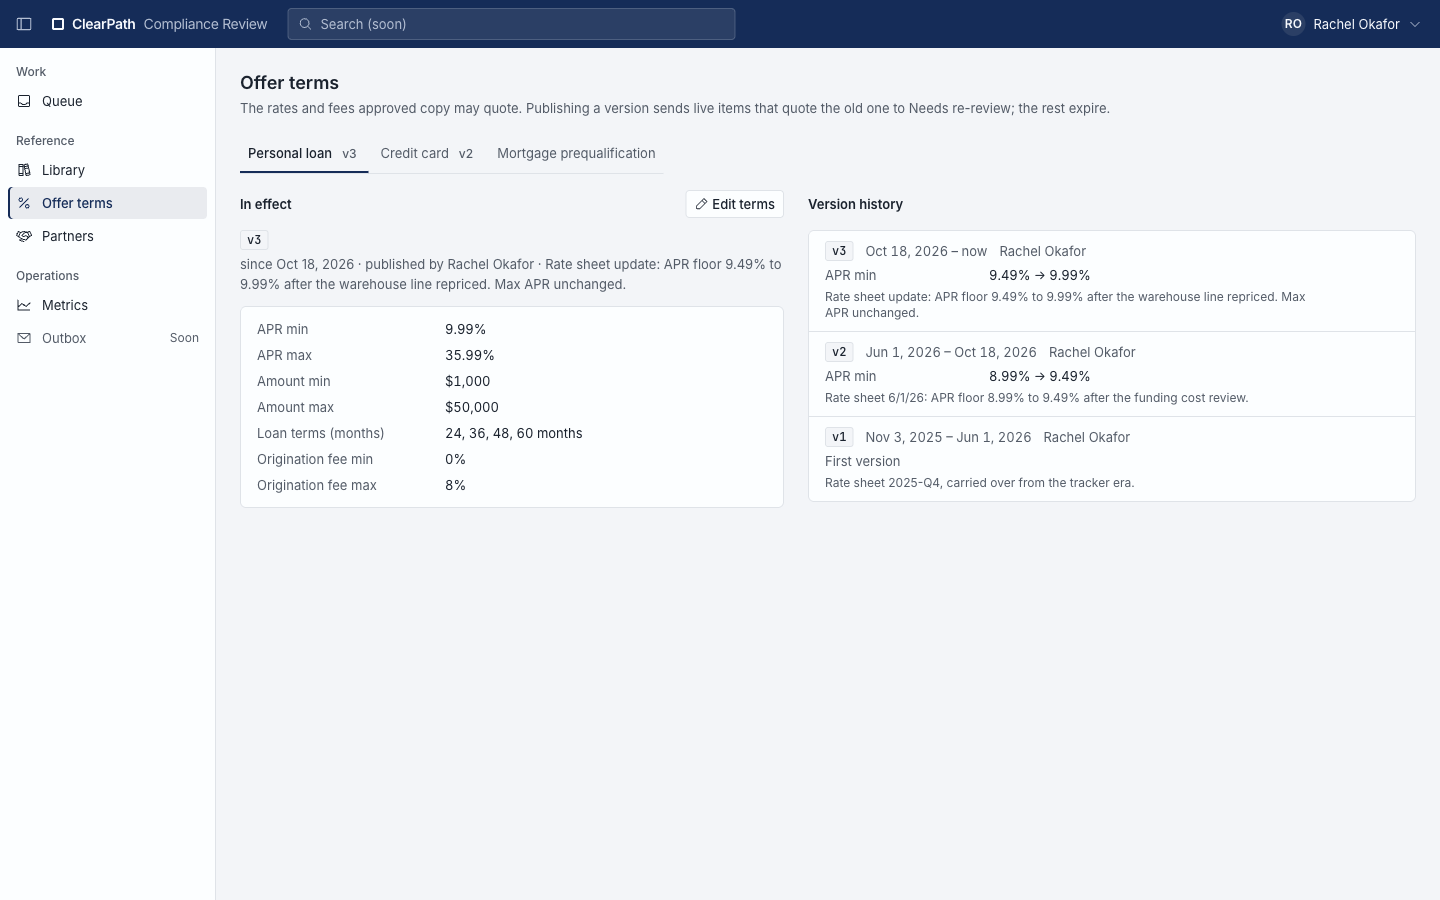
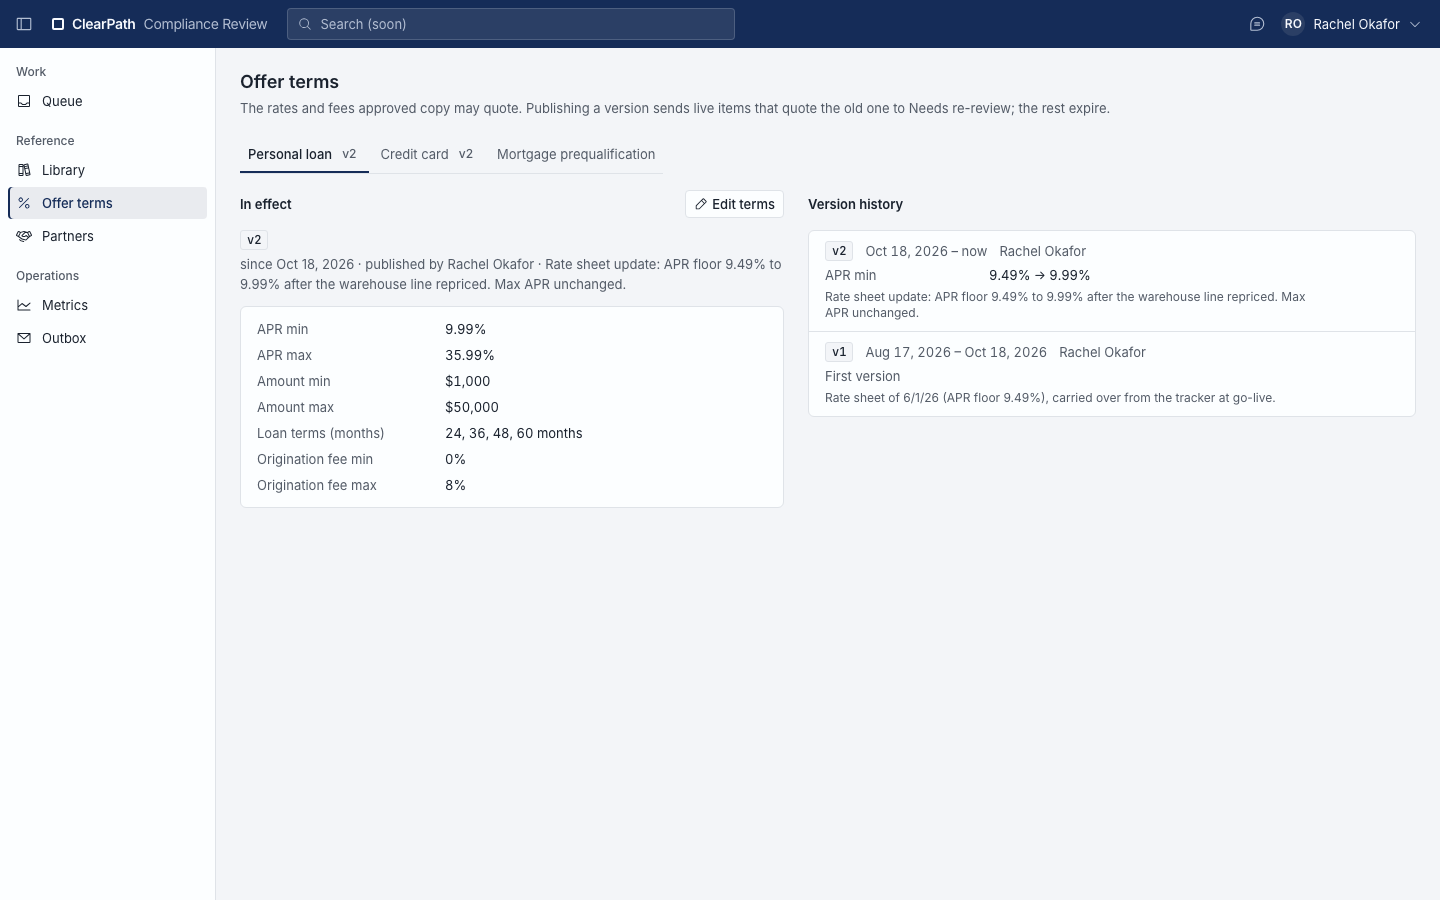
Demo: retake screenshots after the re-anchor and #40; report states the new tracker totals
The seed raises no drift attention alert either (pinned beside the no-email test). New shot:
reviewer-drift-cp7-restored, the guide path run live (Restore original page, Check now, Reaffirm).

diff --git a/backend/demo/tests/test_seed.py b/backend/demo/tests/test_seed.py
@@ -152,8 +152,10 @@ def test_native_history_starts_at_go_live_after_the_tracker_ends(seeded: Seeded)
 
 
 def test_the_seed_sends_no_email(seeded: Seeded) -> None:
-    """Notifications (assignment, decisions, mentions, drift attention) are in-app; any email would land here."""
+    """Notifications (assignment, decisions, mentions, drift attention) are in-app; any email would land here. No
+    seeded check raises a drift attention alert (#40) either: every seeded check is unchanged or modified."""
     assert not OutboxEmail.objects.exists()
+    assert not Event.objects.filter(type=EventType.PAGE_FINDINGS_FLAGGED.value).exists()
 
 
 def test_a_failing_reset_changes_nothing(seeded: Seeded) -> None:

diff --git a/docs/plan/reports/demo-seed.md b/docs/plan/reports/demo-seed.md
@@ -5,8 +5,8 @@ Issue #13. Plan: `docs/plan/demo-seed.md`. Walkthrough for evaluators: `docs/dem
 ## What was built
 
 - **`backend/demo/` app.**
-  - `content/` is the catalog. It has 11 people, 10 partners with agreements, offer terms (personal loan v1→v3,
-    card v1→v2) and 44 item stories. Each story is copy versions plus timed steps.
+  - `content/` is the catalog. It has 11 people, 10 partners with agreements, offer terms (personal loan v1→v2,
+    card v1→v2, both entered at go-live) and 44 item stories. Each story is copy versions plus timed steps.
   - `story.py` is the step DSL.
   - `runner.py` merges every step into one timeline and plays it through the real service functions, using a
     `FixedClock` set to each step's backdated instant. It drains the outbox in-process after each step and
@@ -35,12 +35,12 @@ Issue #13. Plan: `docs/plan/demo-seed.md`. Walkthrough for evaluators: `docs/dem
 | | |
 |---|---|
 | Native items | 44: submitted 5, in review 9, changes requested 4, approved 14, rejected 3, needs re-review 4 (terms changed 2, approval expired 1, drift 1), expired 3, withdrawn 2 |
-| Legacy items | 178 from `samples/` tracker, imported through `imports.services` the evening before; 33 matched to seeded partners |
+| Legacy items | 178 from the `samples/` tracker (2025-09-02 to 2026-08-14), imported through `imports.services` the evening before; 36 matched to seeded partners |
 | Products / channels | personal loan, card, mortgage prequal; email, SMS, paid social, paid search, display, direct mail, landing page, affiliate page, call script; CA-only and national; prescreen |
 | Rule coverage | every code rule id fires at least once (asserted against `CODE_RULES`), plus ≥10 clean versions |
 | Triage | ≥40 accepted, ≥40 dismissed with reasons, carried-forward dismissals, system dismissals on fast-track |
 | AI | scripted findings on most versions; one item with the AI failed after 4 tries (529), so approval needs an override (CP-40); one pending (CP-222) |
-| History | events backdated over ~10 weeks, ~880 events; 5 fast-track approvals, 1 reaffirm (which found the 2026-07-21 Reg B rule as a new finding) |
+| History | 905 events, all from go-live (2026-08-17) on; 5 fast-track approvals; no seeded reaffirm (the guide's CP-7 path makes one) |
 | Drift | CP-7, CP-23 and CP-32 run on the three partner pages ClearPath hosts (`drift.demo.PAGES`), placed via `drift.demo.seed_placement`; 4 checks recorded through `drift.services` on the pages' own HTML; LendCompare is left edited, so CP-7's re-review comes from a real *modified* check |
 | People | Dana's queue holds 5; Rachel (lead) holds 3; Leah is out of office and her released queue left 2 unassigned |
 
@@ -48,21 +48,27 @@ Runtime is about 11 s on a laptop, from both the command and the UI button with 
 
 ## Verification
 
-- Backend, after rebasing on `2f91e1d` (drift and assistant merged):
-  - `pytest`: 1765 passed;
+- Backend, after rebasing on `c3fea39` (#40 drift follow-ups merged):
+  - `pytest`: 1794 passed;
   - `ruff check`, `ruff format --check` and `pyrefly check` (0 errors) are clean;
   - `makemigrations --check` reports no changes;
   - the exported schema matches the committed one;
   - `make semgrep` reports 0 findings.
 - Frontend, after the rebase:
-  - `npm run test:run`: 636 passed;
+  - `npm run test:run`: 645 passed;
   - `typecheck`, `lint`, `format:check` and `build` are clean.
-- Demo tests (`backend/demo/tests/`, 37 in all):
+- Demo tests (`backend/demo/tests/`, 45 in all):
   - the catalog is pure: rule coverage, AI quotes are substrings, steps are in order;
   - the seed runs on one committed DB per module and checks: status counts, an event per item, every rule
     persisted, triage states, AI run statuses, legacy counts, terms versions, every handler's receipts present
     and nothing enqueued to the real worker;
   - a failing reset changes nothing, and reset restores the same `{title: (pk, status)}` snapshot;
+  - native history starts at go-live, after the tracker ends (item 4);
+  - the seed sends no email: no `OutboxEmail` rows. #40's attention notifications (`PAGE_FINDINGS_FLAGGED`) are
+    in-app `Notification` rows written by an outbox handler, delivered in-process like the rest, and the seed
+    has no unchanged-copy-with-new-findings check that would raise one;
+  - the guide's CP-7 path: Reaffirm is refused (`DriftNotRestored`) while the page differs, then Restore,
+    a manual check (*unchanged*), and Reaffirm approves it. The test rolls back and re-edits the page;
   - API: two `seed_demo` runs on an empty DB, an admin reset after which the admin is still signed in, the
     in-flight job is returned to a second request, non-admins get 403, failed and stale jobs are reported,
     and a job that started late is judged by its start.
@@ -72,6 +78,12 @@ Runtime is about 11 s on a laptop, from both the command and the UI button with 
   - I signed in as each role and took screenshots at 1440×900 into `docs/plan/reviews/ui/demo/`: `reviewer`,
     `lead`, `marketer`, `admin`, `marketer-my-submissions`, `reviewer-fast-track-rereview`,
     `reviewer-ai-failed`, `lead-metrics`, `admin-reset-confirm`, `admin-reset-running`, `admin-reset-done`;
+  - after the re-anchor and #40, the data- and drift-dependent shots were retaken by a Playwright script on a
+    fresh seed: `reviewer`, `lead`, `marketer`, `admin`, `reviewer-fast-track-rereview`, `reviewer-ai-failed`,
+    `reviewer-drift-cp7` (now **Check now** / **Pull**), `lead-offer-terms` (v1→v2 from go-live), `lead-metrics`
+    (imported bars end the week of Aug 10; native starts Aug 17), `lead-partners`, and the new
+    `reviewer-drift-cp7-restored`. That last one is the guide's path run live: Restore original page, Check now
+    through the real worker (*unchanged*), and **Reaffirm v3** appears;
   - I clicked Reset demo as admin while a marketer was also signed in: the job finished in about 10 s, a toast
     reported 42 items (44 since the drift stories), and both sessions survived.
 
@@ -119,9 +131,8 @@ Runtime is about 11 s on a laptop, from both the command and the UI button with 
 
 ## Risks and open questions
 
-- **Tracker history overlaps native history (open decision, below).** The sample tracker (a fixed fixture,
-  Nov 3 2025 – Oct 23 2026) runs right up to yesterday, so Metrics shows Excel and the tool in use side by side
-  for the native ten weeks.
+- **Tracker and native history no longer overlap** (item 4 below). A reset weeks from now opens a gap between
+  the tracker's end and go-live; a test fails if they ever overlap.
 - **CP-222 only stays pending for ~10 minutes.** At 10 minutes the reconciler re-enqueues the run on the real
   model. With an API key it gets a real review; without one it fails ("no Anthropic API key"). That's inherent
   to a pending check, and `docs/demo.md` says so.
@@ -178,48 +189,65 @@ Runtime is about 11 s on a laptop, from both the command and the UI button with 
    - Separately, `e2e/shell.spec.ts` still asserted that reviewers don't see Offer terms. #36 changed that and CI
      doesn't run e2e, so it was already failing on main. It now asserts against Metrics, which is lead-only.
 
-## Decision needed: the tracker's dates (item 4)
+4. **The tracker ends the Friday before go-live (option (c): re-anchored once, statically).**
+   - **Go-live is `demo/content/calendar.py` `GO_LIVE`: Monday 2026-08-17 08:00, `day(68)` from the seed clock.**
+     The tracker's last date is Friday 2026-08-14. The orchestrator's "2026-08-14" assumed native history started
+     10 weeks back. It didn't, and three things had to move to make that true:
+     - **`mtg-social-spring`** was submitted 2026-04-19, because its paid-social approval needed six months to
+       lapse into the seed's only Reaffirm. Expiry is `decided_at` + 6 months (`reviews/decisions.py`
+       `approval_expiry`), and legacy items never re-review (`rereview.py` skips `is_legacy`), so the six-month
+       story can't exist inside a ten-week window. It's now the first item through the app (CP-1, approved 8/18,
+       running on Meta), and the Reg B 7/21 note moved to its first checklist. **Cost: the seed has no Reaffirm
+       decision.** The Reaffirm lane is still demonstrated live: the guide's CP-7 path ends in one.
+     - **Offer terms** were published 2025-11-03 (PL 8.99%, card) and 2026-06-01 (PL 9.49%). The go-live terms are
+       now entered that morning: PL v1 at 9.49%, the floor the tracker's 6/1 rate sheet left, then v2 at 9.99% on
+       day 6; card v1, then v2 on day 20. **PL history is v1→v2, not v1→v3**; the 8.99% era lives in the imported
+       tracker, whose comments quote it.
+     - **Partners** were entered 2026-04-07. They're now entered at go-live, or at 09:00 on their agreement date
+       if that's later (BudgetBee signed 2026-09-14, so it's added then).
+   - **Generator** (`scripts/generate_sample_tracker.py`):
+     - AS_OF 2026-08-14;
+     - submissions 2025-09-02 to 2026-08-12;
+     - `MONTHLY_VOLUME` Sep 2025 to Aug 2026, still 178;
+     - Labor Day 2025 added to the holidays;
+     - the re-review window ends 8/12;
+     - file created 2025-08-28.
+     - Seasons, the freeze, the 6/1 rate change and the 7/21 Reg B rewrite are unchanged. The layout is unchanged
+       too (note row r43, duplicate r64/r68, reused ID r121/r122).
+     - `SEED` is now 20250908. With the old seed the new calendar produced no five-round item and no clean
+       "Not Started" status, so `mapping.py`'s `"not started"` entry would have lost its only exercise. I picked the
+       first of twelve candidate seeds that kept both and every README bullet non-empty.
+   - **New totals** (`samples/README.md`):
 
-**The ask.**
-- End the sample tracker the day before the tool's go-live, about 10 weeks before the seed clock.
-- Totals unchanged.
-- Go-live is a shared value relative to the seed clock, so a reset months later keeps the split.
+     | | Before | Now |
+     |---|---|---|
+     | Items / distinct IDs / rows | 178 / 177 / 180 | same |
+     | Submitted range | 2025-11-03 to 2026-10-20 | 2025-09-02 to 2026-08-12 |
+     | Last updated | 2026-10-23 | 2026-08-14 |
+     | approved / approved_with_edits | 132 / 13 | 125 / 14 |
+     | changes_requested / in_review / submitted / rejected | 11 / 8 / 8 / 6 | 10 / 12 / 8 / 9 |
+     | Open / unassigned | 16 / 8 | 20 / 8 |
+     | Rows with a partner, after import | 33 | 36 |
+     | Asset links: hyperlink / text URL / none | 112 / 45 / 22 | 96 / 58 / 25 |
+     | Placement links: hyperlink / text URL | 23 / 72 | 7 / 87 |
 
-**Why it can't be built as stated.** The generator (`scripts/generate_sample_tracker.py`) simulates on a fixed
-calendar, and its random path depends on calendar dates:
-- `submission_dates` buckets by calendar month (`MONTHLY_VOLUME`).
-- `pick_theme` filters seasonal themes by `submitted.month` (line 1159): "Holiday Expenses" in months 11–12,
-  "Back to School" in 7–8, "Tax Season" in 1–4.
-- The holidays and the freeze window decide which days are workdays.
-- Request IDs carry a per-year counter (`MCR-YY-nnn`, line 1145), and year-less dates are inferred from that
-  prefix.
+   - **G's oracle tests**: `imports/tests/test_normalize.py`, `test_services.py`, `test_api.py`, `test_workbook.py`
+     and `exports/tests/test_exports.py`.
+     - The numeric totals above changed.
+     - Hard-coded rows were re-pointed at rows that have the same property: the note row 19 → 43, the reused ref
+       `MCR-26-101-b` → `MCR-26-077-b`, the "Pending" row, the "Lend Compare" rows, the year-crossing row, and the
+       approval-before-submission date (10/1/25 → 8/1/25, since row 2 is now submitted 2025-09-02).
+     - `test_legacy_item_fields` used one row (MCR-25-012) that was both approver-only and blank-expiry. No row is
+       both now, so it checks one row per property: approver-only, blank expiry, blank status, text expiry,
+       "CardPerks".
+     - No assertion was removed. `docs/plan/import-export.md` and `reports/sample-tracker.md` still quote the old
+       numbers as history.
+   - **Overlap guard.** `test_native_history_starts_at_go_live_after_the_tracker_ends` asserts:
+     - the latest legacy `submitted_at` / `approved_at` is 2026-08-14 and before `GO_LIVE`;
+     - the first event in the database is exactly at `GO_LIVE`;
+     - no native item is submitted before it.
 
-The three ways to satisfy part of the ask:
-
-- **(a) Re-anchor the simulation to a go-live argument, and run it at reset time.**
-  - The generator moves into the backend so the seed can call it. `scripts/` becomes a thin wrapper, because the
-    image's build context is `backend/`.
-  - The window becomes [go-live − ~50 weeks, go-live − 1 day], with seasons following real months.
-  - Cost:
-    - The row count can stay 178, but the status, issue and problem-row mix changes, so the README oracle and G's
-      oracle tests change.
-    - Those numbers also differ for every go-live date, so the seed's tests would assert ranges instead of exact
-      counts.
-    - It's the largest change, and it lands in G's oracle.
-- **(b) Simulate as today, and shift only the rendered dates by whole weeks.**
-  - Every total stays identical, and it also works at reset time.
-  - Cost:
-    - Seasonal campaigns render out of season (a 10-week shift puts "Holiday Expenses" in September).
-    - Request IDs either collide across the shifted year boundary or carry the wrong year, which breaks the
-      importer's year inference.
-    - The "2026" note row lands in the wrong place.
-- **(c) Re-anchor once, statically.**
-  - Regenerate the committed tracker so it ends 2026-08-14, the day before a go-live 10 weeks back, with the seed
-    importing it as today.
-  - Exact split for a reset now. A reset N weeks later shows an N-week gap between the tracker's end and the
-    tool's start, but never an overlap.
-  - Cost: the README oracle and G's oracle tests change once, apart from the row count.
-
-**Recommendation: (c).** The hosted demo's life is weeks, so a growing gap is tolerable, while (b) produces visibly
-wrong content and (a) puts a moving target under G's oracle tests. If a reset months out really matters, (a) is
-the only correct option.
+     I checked it fails: with `GO_LIVE` moved to `day(80)` it fails with `2026-08-14 < 2026-08-05`. A story step
+     placed before go-live fails the first-event assertion.
+   - **Seeded later?** A reset N weeks after 2026-10-24 shows an N-week gap between the tracker and go-live, never
+     an overlap.
